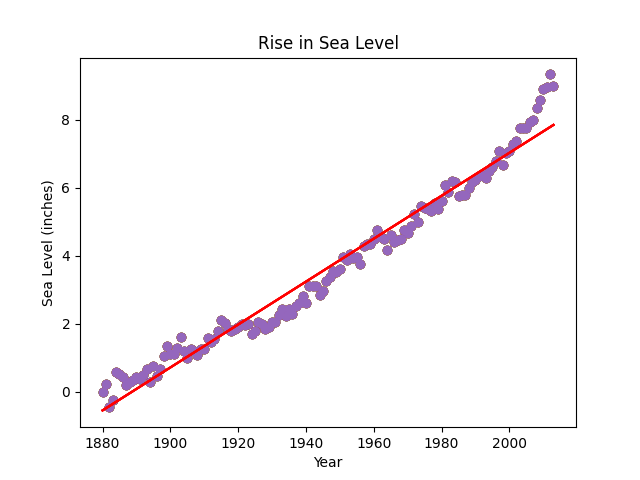
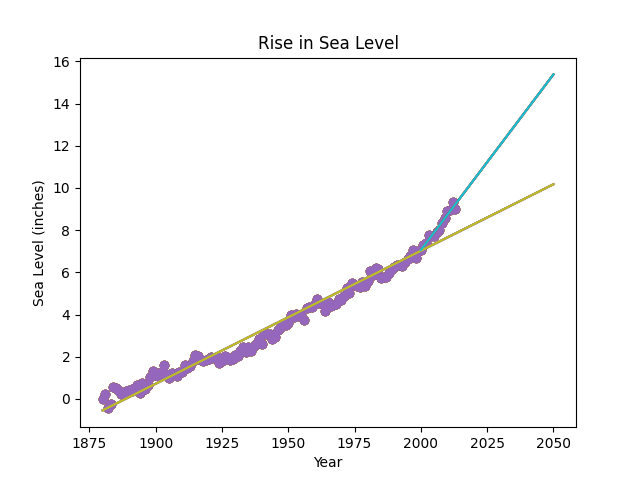
finish_ok

diff --git a/sea_level_predictor.py b/sea_level_predictor.py
@@ -1,6 +1,7 @@
 import pandas as pd
 import matplotlib.pyplot as plt
 from scipy.stats import linregress
+import numpy as np
 
 def draw_plot():
     # Read data from file
@@ -11,18 +12,22 @@ def draw_plot():
     plt.scatter(df["Year"], df["CSIRO Adjusted Sea Level"])
 
     # Create first line of best fit
-    res = linregress(df["Year"], df["CSIRO Adjusted Sea Level"])
-    plt.plot(df["Year"], res.intercept + res.slope*df["Year"], 'r', label='fitted line')
+    resA = linregress(df["Year"], df["CSIRO Adjusted Sea Level"])
+    # Create a range of years from the minimum year to 2050
+    years_range_A = np.arange(min(df["Year"]), 2051)
+    plt.plot(years_range_A, resA.intercept + resA.slope*years_range_A)
 
     # Create second line of best fit
-
+    df2 = df[df['Year'] >= 2000]
+    resB = linregress(df2["Year"], df2["CSIRO Adjusted Sea Level"])
+    years_range_B = np.arange(2000, 2051)
+    plt.plot(years_range_B, resB.intercept + resB.slope*years_range_B)
 
     # Add labels and title
     plt.xlabel("Year")
     plt.ylabel("Sea Level (inches)")
     plt.title("Rise in Sea Level")
 
-    
     # Save plot and return data for testing (DO NOT MODIFY)
     plt.savefig('sea_level_plot.png')
     return plt.gca()
